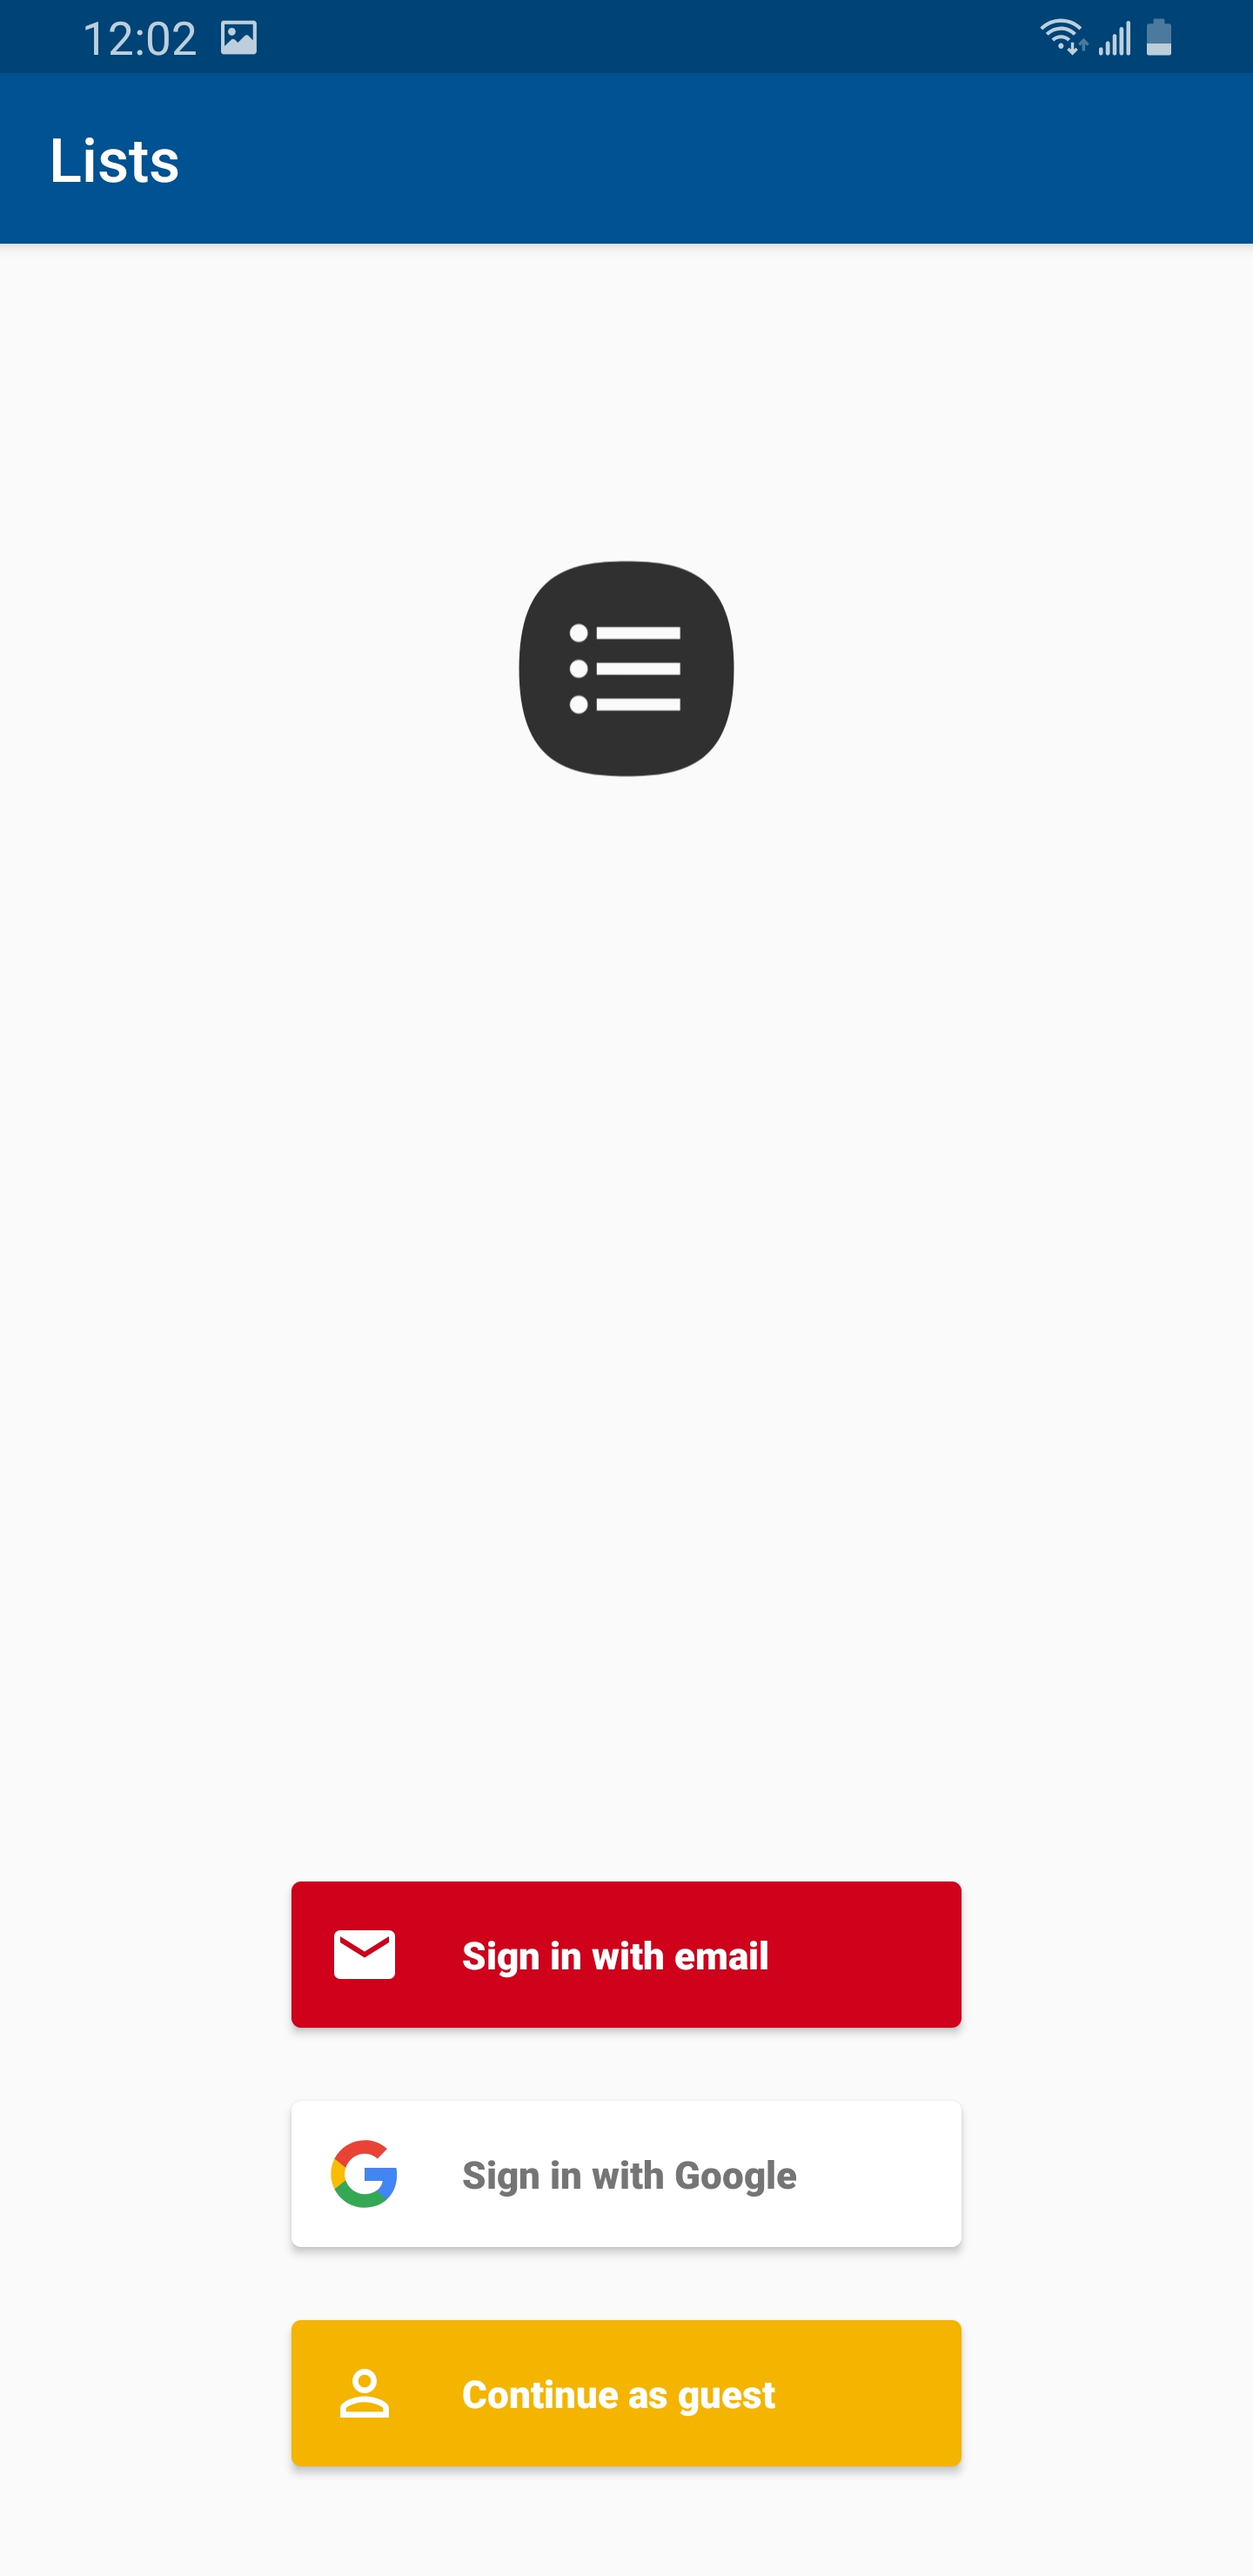
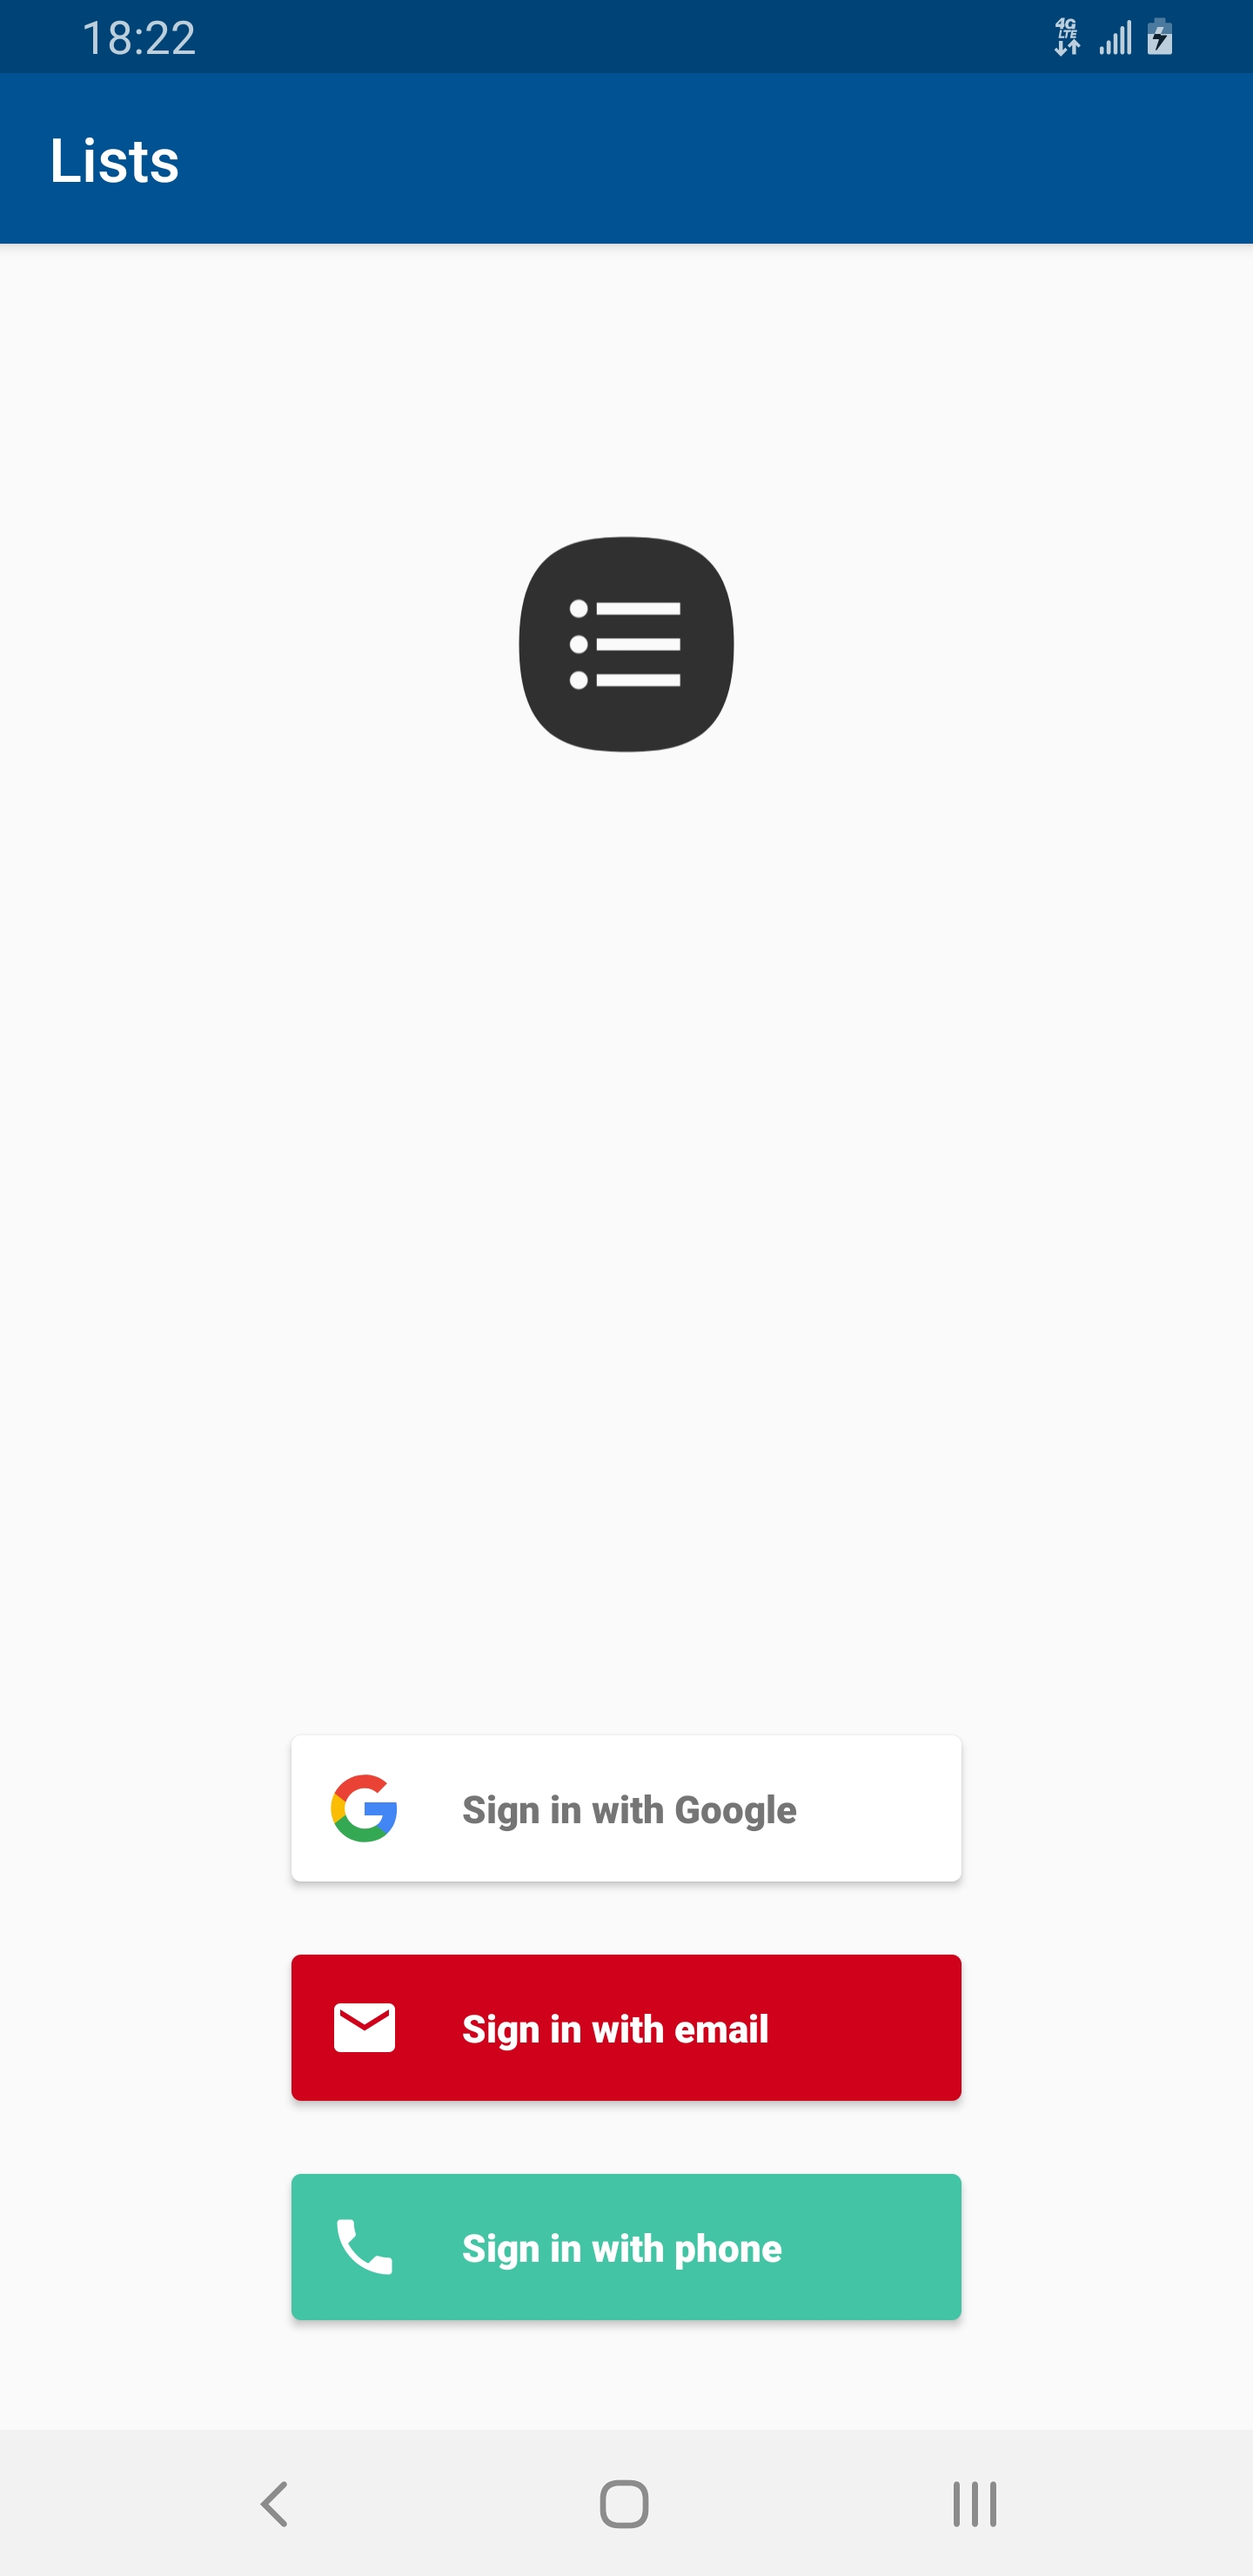
Updated README and screenshots
Updated to reflect the change is available auth methods.

diff --git a/README.md b/README.md
@@ -14,9 +14,9 @@ This app utilizes Firebase's Cloud Firestore to synchronize between devices and 
 - Drag to rearrange
 - Supports keyboard navigation.
 - Available authentication methods:
-  - Email
   - Google account
-  - Remain anonymous
+  - Email
+  - Phone number
 
 # Screenshots
 
